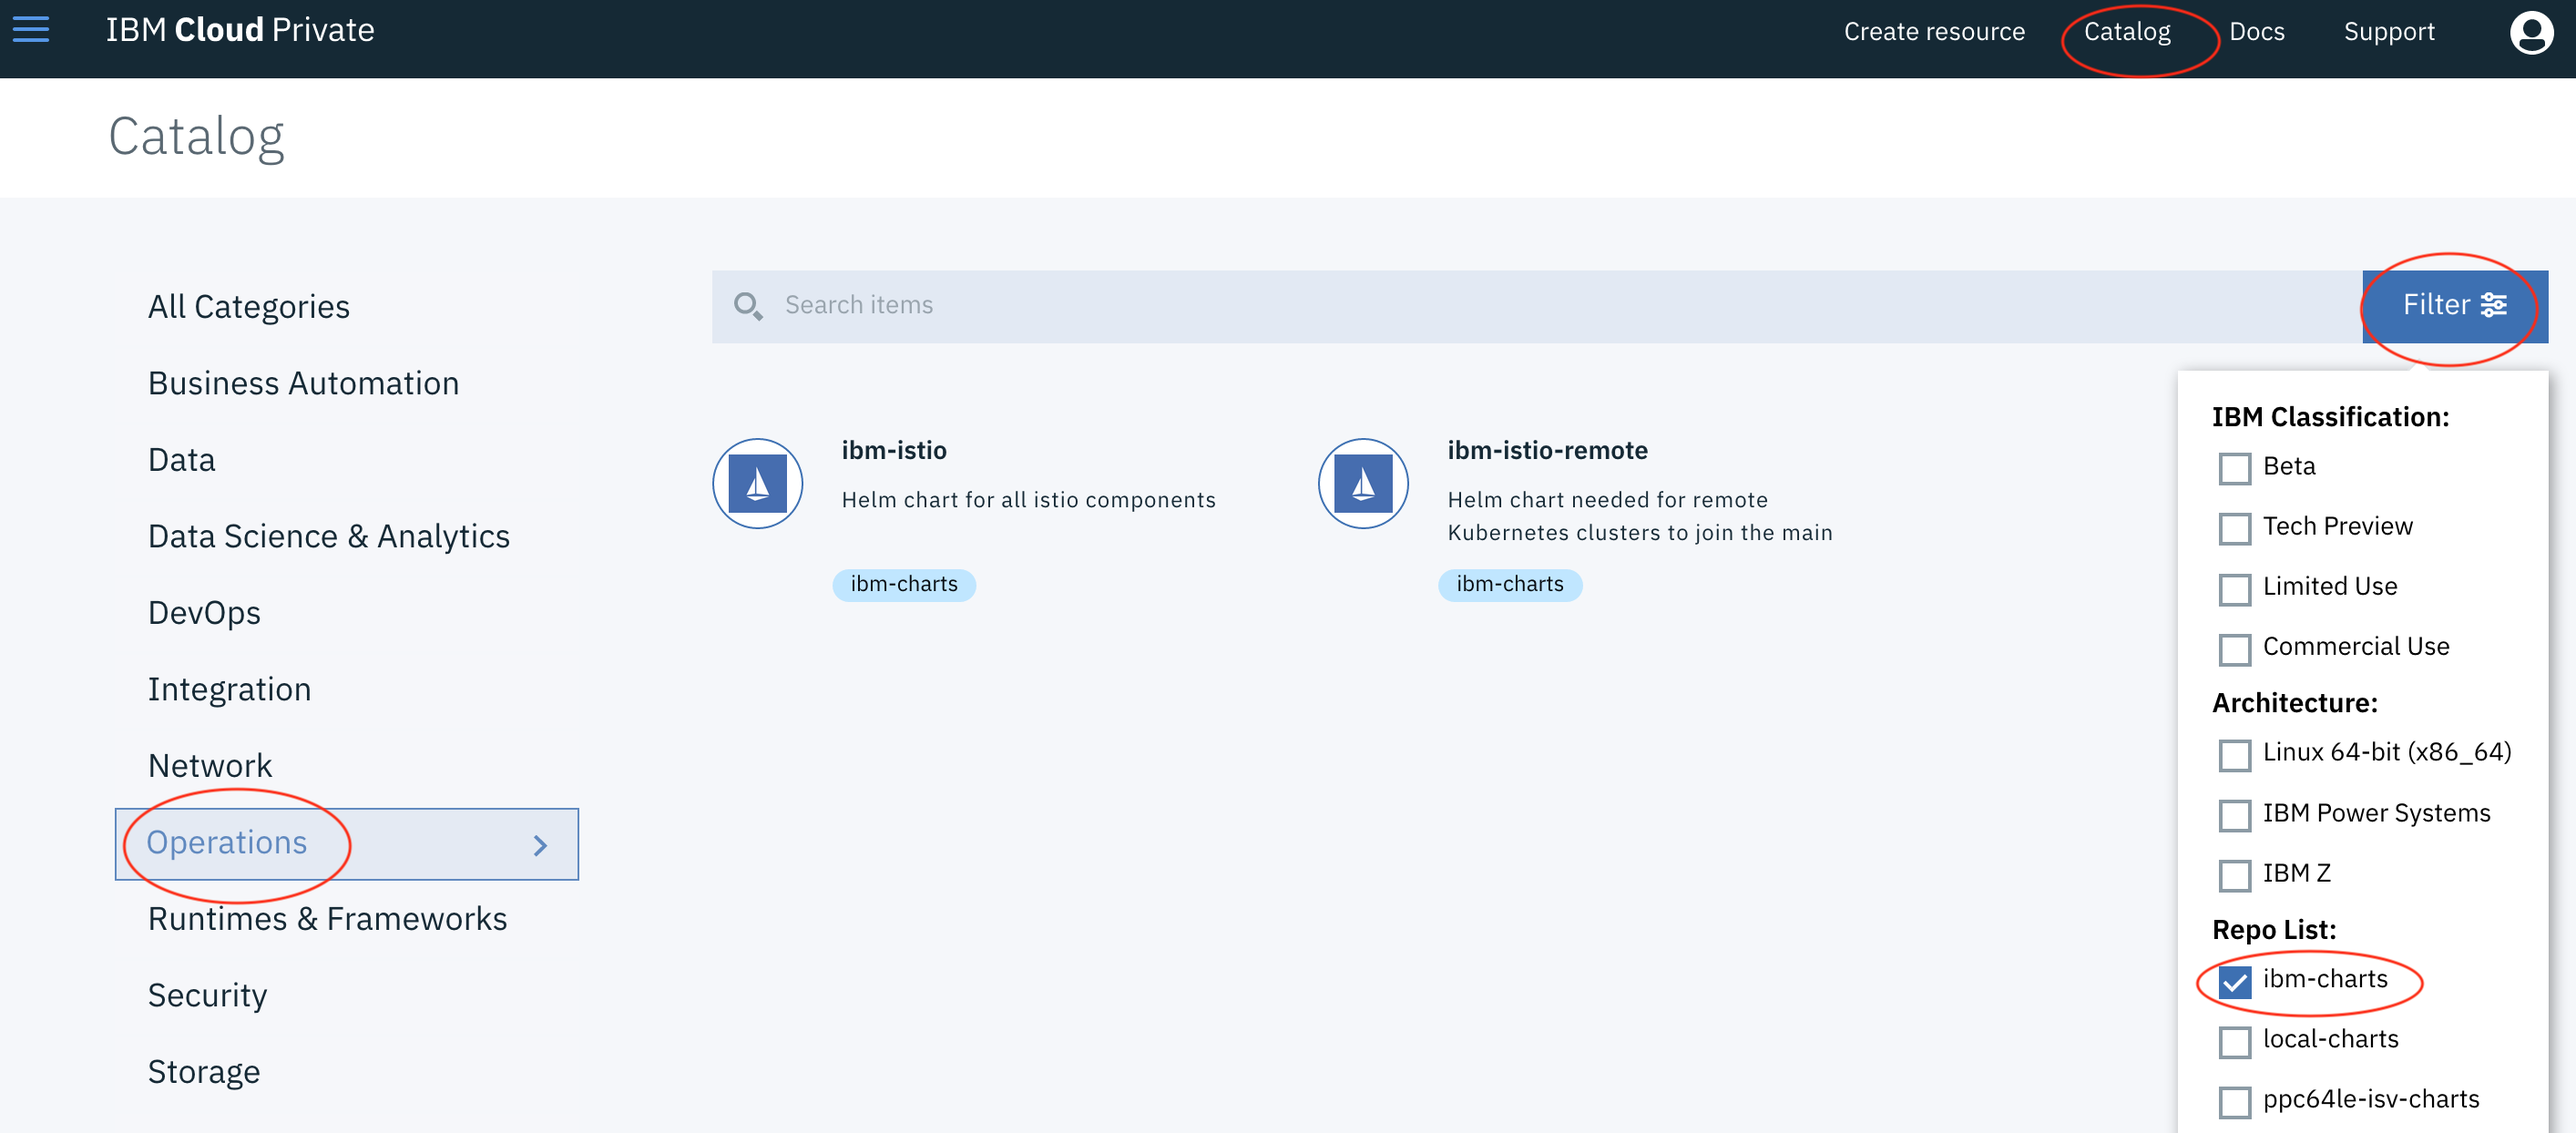
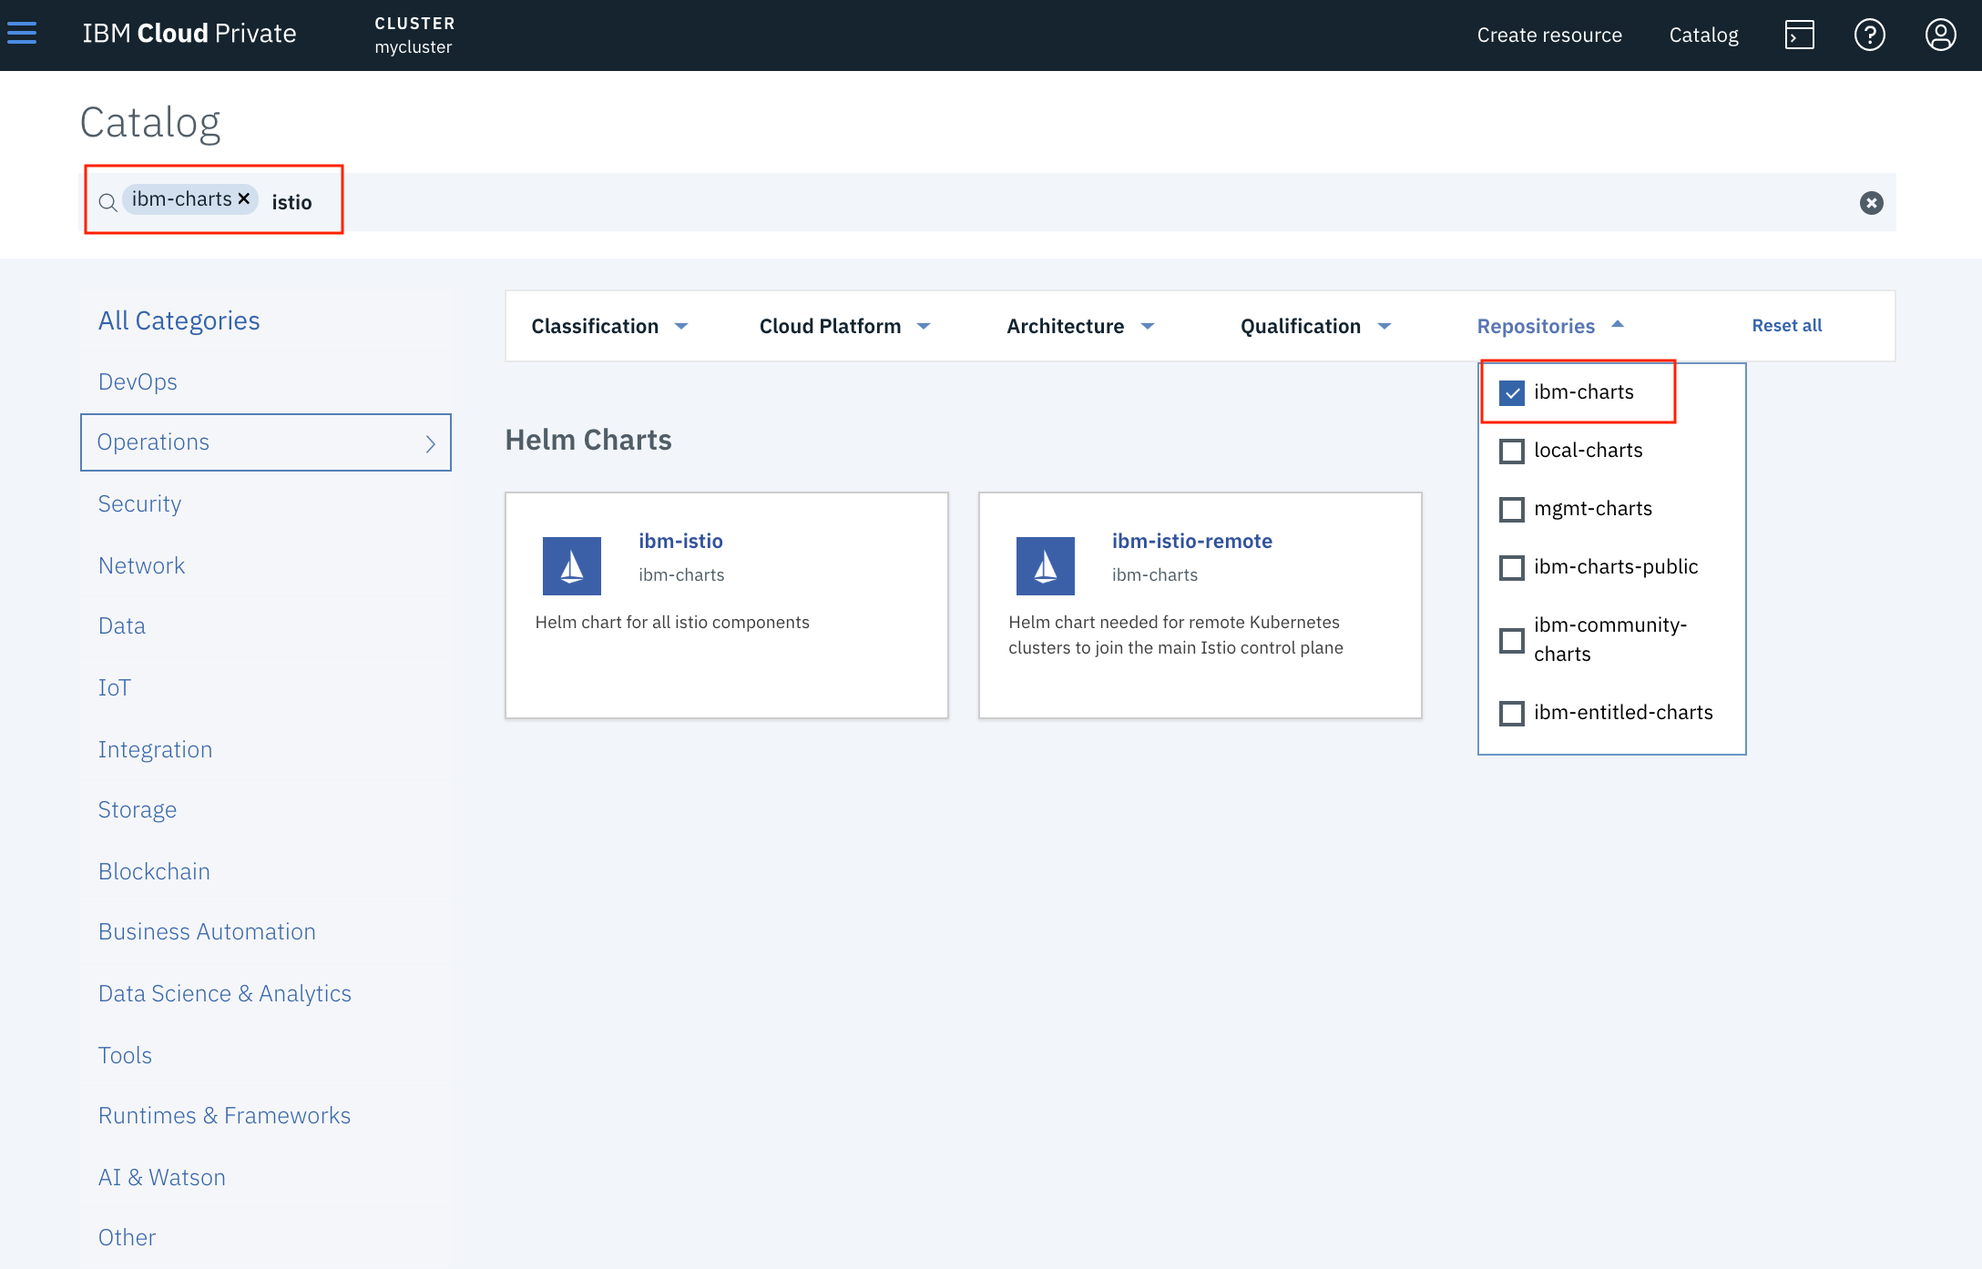
update setup steps for ICP. (#4295)
* update setup step for ICP.

* apply comments.

diff --git a/content/docs/setup/kubernetes/install/platform/ibm/index.md b/content/docs/setup/kubernetes/install/platform/ibm/index.md
@@ -42,8 +42,9 @@ This guide installs the current release version of Istio.
 
 - Log in to the **IBM Cloud Private** console.
 - Click `Catalog` on the right side of the navigation bar.
-- Click `Filter` on the right side of the search box and select the `ibm-charts` check box.
-- Click `Operations` in the left navigation pane.
+- Click `Repositories` drop-down on the right side of the search box.
+- Select the `ibm-charts` check box.
+- Input `istio` in the search box.
 
 {{< image link="./istio-catalog-1.png" caption="IBM Cloud Private - Istio Catalog" >}}
 
@@ -52,18 +53,20 @@ This guide installs the current release version of Istio.
 {{< image link="./istio-catalog-2.png" caption="IBM Cloud Private - Istio Catalog" >}}
 
 - (Optional) Change the Istio version using the `CHART VERSION` drop-down.
-- Click the `Configure` button.
+- Click the `Configure` button at the bottom right corner.
 
 {{< image link="./istio-installation-1.png" caption="IBM Cloud Private - Istio Installation" >}}
 
-- Input the Helm release name (e.g. `istio-1.0.3`) and select `istio-system` as the target namespace.
-- Agree to the license terms.
+- Input the Helm release name (e.g. `istio`).
+- Select `istio-system` as the target namespace.
+- Select `local-cluster` as target cluster.
+- If you agree with the license terms, check the agree to license terms box.
 - (Optional) Customize the installation parameters by clicking `All parameters`.
 - Click the `Install` button.
 
 {{< image link="./istio-installation-2.png" caption="IBM Cloud Private - Istio Installation" >}}
 
-After it is installed, you can find it by searching for its release name on the **Helm Releases** page.
+After Istio is installed, you can find it by searching for its release name on the **Helm Releases** page.
 
 {{< image link="./istio-release.png" caption="IBM Cloud Private - Istio Installation" >}}
 
